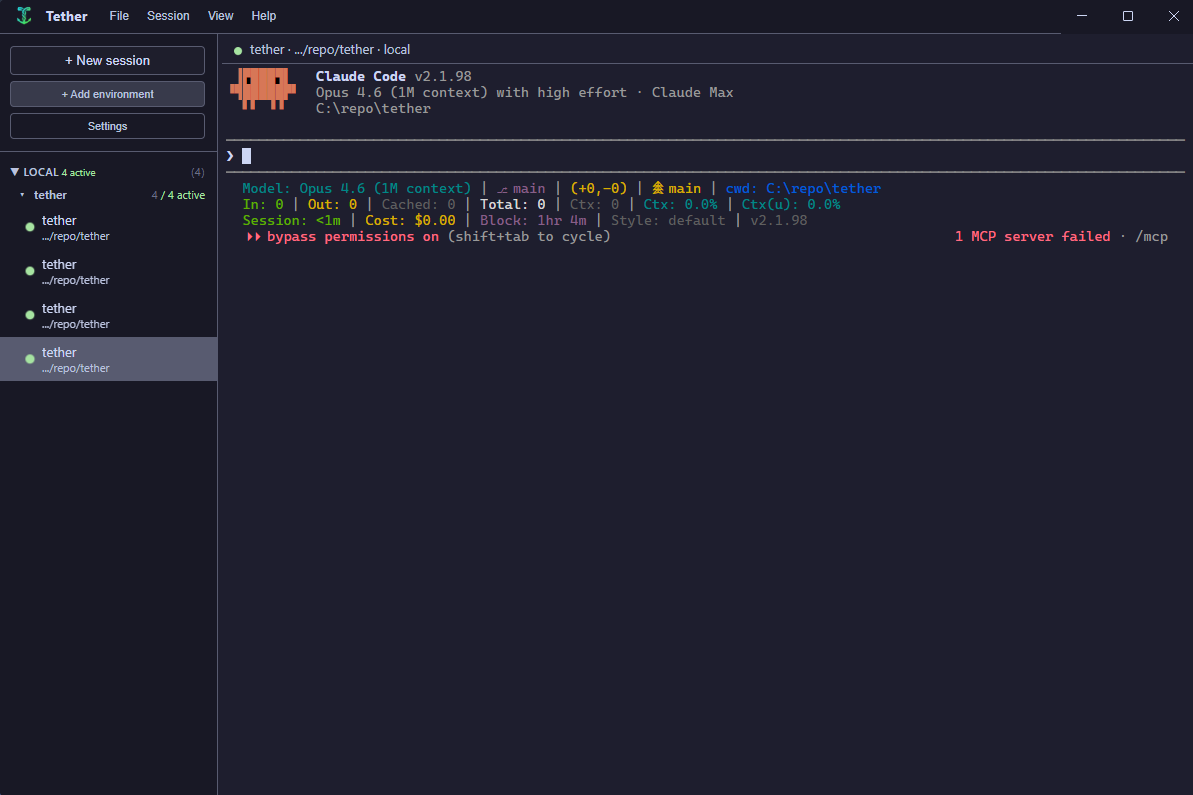
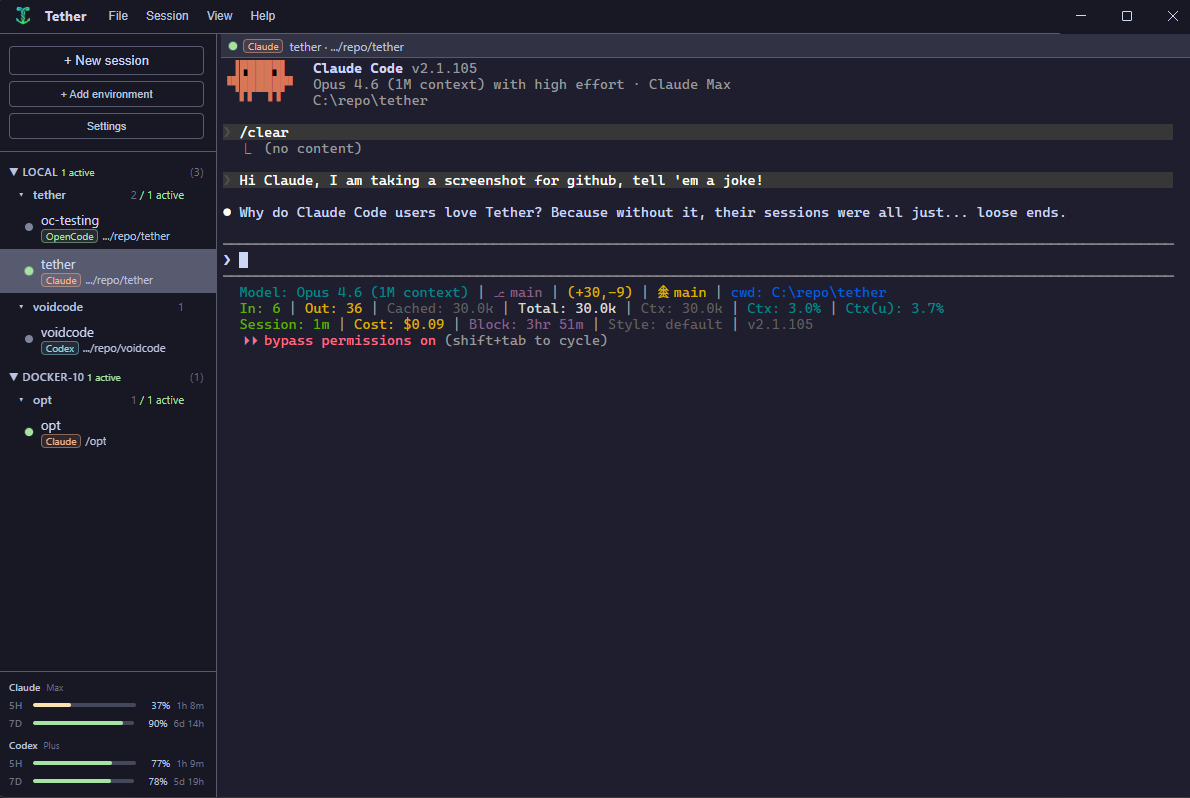
Fix duplicate terminal cursor and update screenshot (#12)
* Polish SSH known hosts settings row

Restructure the SSH Known Hosts entries so the host, fingerprint, and trusted date use dedicated row styling instead of mixed provider and hint inline styles. Use a compact revoke button style so the destructive action matches the surrounding settings typography.

Verification: npx tsc --noEmit; npm test. npm run lint could not start because eslint is not installed in the local node_modules.

* Fix duplicate terminal cursor and update screenshot

Hide the xterm cursor through the active xterm theme so canvas-rendered cursors are suppressed, while keeping the settings opt-out for plain terminal programs.

Update the README screenshot asset with the current screenshot.png provided by the user.

Tests: npx tsc --noEmit

diff --git a/src/renderer/App.tsx b/src/renderer/App.tsx
@@ -1,4 +1,5 @@
 import { useState, useCallback, useEffect, useMemo, useRef } from 'react';
+import type { ITheme } from '@xterm/xterm';
 import { SplitLayout } from './components/SplitLayout';
 import { RepoGroup } from './components/sidebar/RepoGroup';
 import { NewSessionDialog } from './components/sidebar/NewSessionDialog';
@@ -57,14 +58,24 @@ export function App() {
   const [isDragging, setIsDragging] = useState(false);
   const [draggingPaneId, setDraggingPaneId] = useState<string | null>(null);
   const [repoGroupPrefs, setRepoGroupPrefs] = useState<RepoGroupPref[]>([]);
+  const [hideTerminalCursor, setHideTerminalCursor] = useState(true);
   const [editingEnv, setEditingEnv] = useState<EnvironmentInfo | null>(null);
   const [envMenuOpenId, setEnvMenuOpenId] = useState<string | null>(null);
   const envMenuRef = useRef<HTMLDivElement>(null);
   const { themeName, setTheme, xtermTheme } = useTheme();
-  const termManager = useTerminalManager(xtermTheme);
+  const effectiveXtermTheme = useMemo(
+    () => hideTerminalCursor ? withHiddenXtermCursor(xtermTheme) : xtermTheme,
+    [hideTerminalCursor, xtermTheme],
+  );
+  const termManager = useTerminalManager(effectiveXtermTheme);
   const { layoutState, layoutDispatch } = useLayoutState();
   const { notifications, notify, dismiss } = useNotifications();
   const effectiveMaxPanes = enablePaneSplitting ? maxPanes : 1;
+
+  useEffect(() => {
+    document.body.classList.toggle('tether-hide-cursor', hideTerminalCursor);
+    return () => document.body.classList.remove('tether-hide-cursor');
+  }, [hideTerminalCursor]);
 
   // Derive activeSessionId from focused pane
   const focusedLeaf = layoutState.focusedPaneId && layoutState.root
@@ -98,7 +109,8 @@ export function App() {
       setEnableResumePicker(picker !== 'false');
       setEnablePaneSplitting(splitting === 'true');
       setMaxPanes(parseMaxPanes(maxPaneValue));
-      document.body.classList.toggle('tether-hide-cursor', hideCursor === 'true');
+      const shouldHideCursor = hideCursor !== 'false';
+      setHideTerminalCursor(shouldHideCursor);
     });
     return () => { cancelled = true; };
   }, [settingsOpen]);
@@ -968,6 +980,15 @@ function extractErrorMessage(err: unknown): string {
   const raw = err instanceof Error ? err.message : String(err);
   const match = raw.match(/Error invoking remote method '[^']+':\s*(?:Error:\s*)?(.*)$/s);
   return match ? match[1].trim() : raw;
+}
+
+function withHiddenXtermCursor(theme: ITheme): ITheme {
+  const background = theme.background ?? '#000000';
+  return {
+    ...theme,
+    cursor: background,
+    cursorAccent: theme.foreground ?? background,
+  };
 }
 
 function parseMaxPanes(value: string | null | undefined): number {

diff --git a/src/renderer/components/SettingsDialog.tsx b/src/renderer/components/SettingsDialog.tsx
@@ -55,7 +55,7 @@ export function SettingsDialog({ isOpen, onClose, currentTheme, onThemeChange }:
   const [quotaEnabled, setQuotaEnabled] = useState(true);
   const [usageStripEnabled, setUsageStripEnabled] = useState(true);
   const [globalUsageEnabled, setGlobalUsageEnabled] = useState(true);
-  const [hideTerminalCursor, setHideTerminalCursor] = useState(false);
+  const [hideTerminalCursor, setHideTerminalCursor] = useState(true);
   const [loaded, setLoaded] = useState(false);
 
   // Profile state
@@ -121,7 +121,7 @@ export function SettingsDialog({ isOpen, onClose, currentTheme, onThemeChange }:
       setQuotaEnabled(quota !== 'false');
       setUsageStripEnabled(usageStrip !== 'false');
       setGlobalUsageEnabled(globalUsage !== 'false');
-      setHideTerminalCursor(hideCursor === 'true');
+      setHideTerminalCursor(hideCursor !== 'false');
       setLoaded(true);
     });
     window.electronAPI.profile.list().then(setProfiles).catch(() => {});
@@ -308,7 +308,7 @@ export function SettingsDialog({ isOpen, onClose, currentTheme, onThemeChange }:
               Suppress the xterm.js block cursor. Claude Code, Codex, and OpenCode draw
               their own input indicator, so the xterm cursor often reads as a redundant
               second cursor that bounces around during thinking animations.
-              Leave off if you use plain shells, vim, or htop in Tether.
+              Turn this off if you use plain shells, vim, or htop in Tether.
             </p>
           </div>
 

diff --git a/src/renderer/styles/global.css b/src/renderer/styles/global.css
@@ -1637,10 +1637,10 @@ input[type="password"].form-input {
   line-height: 0 !important;
 }
 
-/* When "Hide terminal cursor" is enabled, suppress the xterm cursor entirely.
-   AI CLIs (Claude Code, Codex, OpenCode) draw their own colored block as the
-   input indicator, so the xterm cursor reads as a redundant second cursor that
-   bounces around during rapid redraws (e.g. thinking spinners). */
+/* When "Hide terminal cursor" is enabled, suppress DOM-rendered xterm cursors.
+   App.tsx also hides canvas-rendered cursors by overriding the xterm cursor
+   theme color. AI CLIs draw their own input indicator, so the xterm cursor
+   reads as a redundant second cursor during rapid redraws. */
 body.tether-hide-cursor .xterm-cursor {
   visibility: hidden !important;
 }
